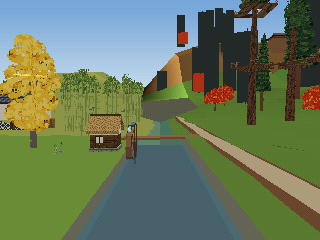
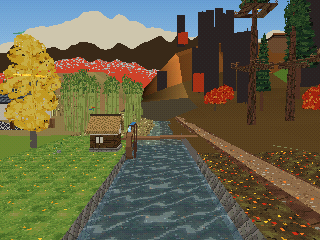
Shrine town: far views' screenshots with fog, the stand-ins' set in TEXTURES.md

diff --git a/carts/garden/shrinetown/TEXTURES.md b/carts/garden/shrinetown/TEXTURES.md
@@ -95,8 +95,8 @@ Before the re-split the town's entry was 382,960 (the van and the three signs ad
 palettes and the backdrop's art are about 33,000 of each entry; the rest is 0.94 cycles a byte of
 texels.
 
-A frame that goes past 1,000,000 CPU cycles is shown a tick late. (Whether the far views' slot 0 is copied on entering a region is that
-branch's; if it is, add about 60,000 to each entry.) The heaviest frames
+A frame that goes past 1,000,000 CPU cycles is shown a tick late. (The far views' set, slots 0
+and 31, is copied on every entry: 61,824 bytes, about 58,000 cycles more on each.) The heaviest frames
 within 16 m of the line, as the World Checker measures them, are about 515,000 (views 228, 262,
 263: the canal's and the cemetery lane's ends of the courtyard row). **Now neither crossing
 hitches:** about 920,000 entering the town, 780,000 entering the shrine. Filled to its budget, the
@@ -123,21 +123,23 @@ a hard limit: over it the world does not build, and the error lists every asset'
 a tile drawn in both regions is in both sets and loaded with each. DESIGN.md 8.5's common set
 (asphalt, kerb, concrete, signs, shared with the city levels) is a plan, not a kit feature; here it
 is the 10 KB in both. What is built (2026-10-05, `standins.textures`, WORLDKIT.md "Stand-ins made by
-the kit") is a set for the stand-ins' cutouts: slot 0, taken out of both regions' slots and held by
-both regions' sets at the same places.
+the kit") is a set for the stand-ins' cutouts: slots 0 and 31, taken out of both regions' slots
+and held by both regions' sets at the same places (measured on `far-views` after the split):
 
 | Set | Tiles | Bytes (texels) | Bytes on the grid | Budget | 4-bit palettes |
 |---|---|---|---|---|---|
-| stand-ins' (slot 0) | 15 | 23,764 | 27,488 | 32,768 | 4, copied twice into each region (as drawn near, and hazed) |
-| `town` (slots 13–1), own tiles | 488 | 243,100 | 319,488 (was 330,560) | 389,120 | 157 with the copies (palettes 0–184 in all) |
-| `shrine` (slots 13–1), own tiles | 164 | 87,171 | 107,840 (was 129,664) | 307,200 | 44 with the copies (palettes 185–245 in all) |
+| stand-ins' (slots 0, 31) | 27 | 48,518 | 56,736 | 65,536 | 12; each region copies those it draws twice (as drawn near, and hazed): the town 5 + 5 (187–196), the shrine 10 + 10 (319–338) |
+| `town`, own tiles | 523 | 304,319 | 384,832 | 684,032 | palettes 0–197 in all (the shrine's silhouette's, 198, after them: a plane reads bank 0 only) |
+| `shrine`, own tiles | 198 | 196,803 | 217,472 | 471,040 | palettes 256–339 in all |
 
-The cards are the far cards of the seven trees (cedar, giant cedar, hollow sacred cedar, ginkgo,
-maple, small maple, zelkova: 5,408 bytes each 96 × 96 one, 2,720 the cedars' 32 × 128), the hollow
-cedar's leaf cluster, and the cutout lattices of the fire tower, canal grille, arched bridge, pool
-fence, watermill wheel, platforms and the ramen shop's treads. The regions' palettes now run to
-245 (232 before): the far colours became entries of their own (hazed per variant), and each region
-holds two copies of the cards' palettes. Eight 4-bit palettes are left before the star's 254.
+The cards are the far cards of the seven trees (cedar in two drawings, giant cedar, hollow sacred
+cedar, ginkgo and maple in two each, small maple, zelkova: 5,408 bytes each 96 × 96 one, 2,720 a
+cedar's 32 × 128), the hollow cedar's leaf cluster, the impostors of the temple, pagoda, gate and
+station concourse, and the cutout lattices of the fire tower, canal grille, arched bridge, pool
+fence, watermill wheel, platforms and the ramen shop's treads. Since the first version (15 tiles,
+slot 0 alone) the regions' palettes grew: the far colours became entries of their own (hazed per
+variant), and each region holds two copies of the cards' palettes. Bank 0 has 199–253 free (55)
+before the star's 254.
 
 **Entering a region.** The garden cart enters the region of the cell the player stands in when it
 changes (`game.akr`, `follow_region()`): `wp_region_enter()` copies the region's whole set at
